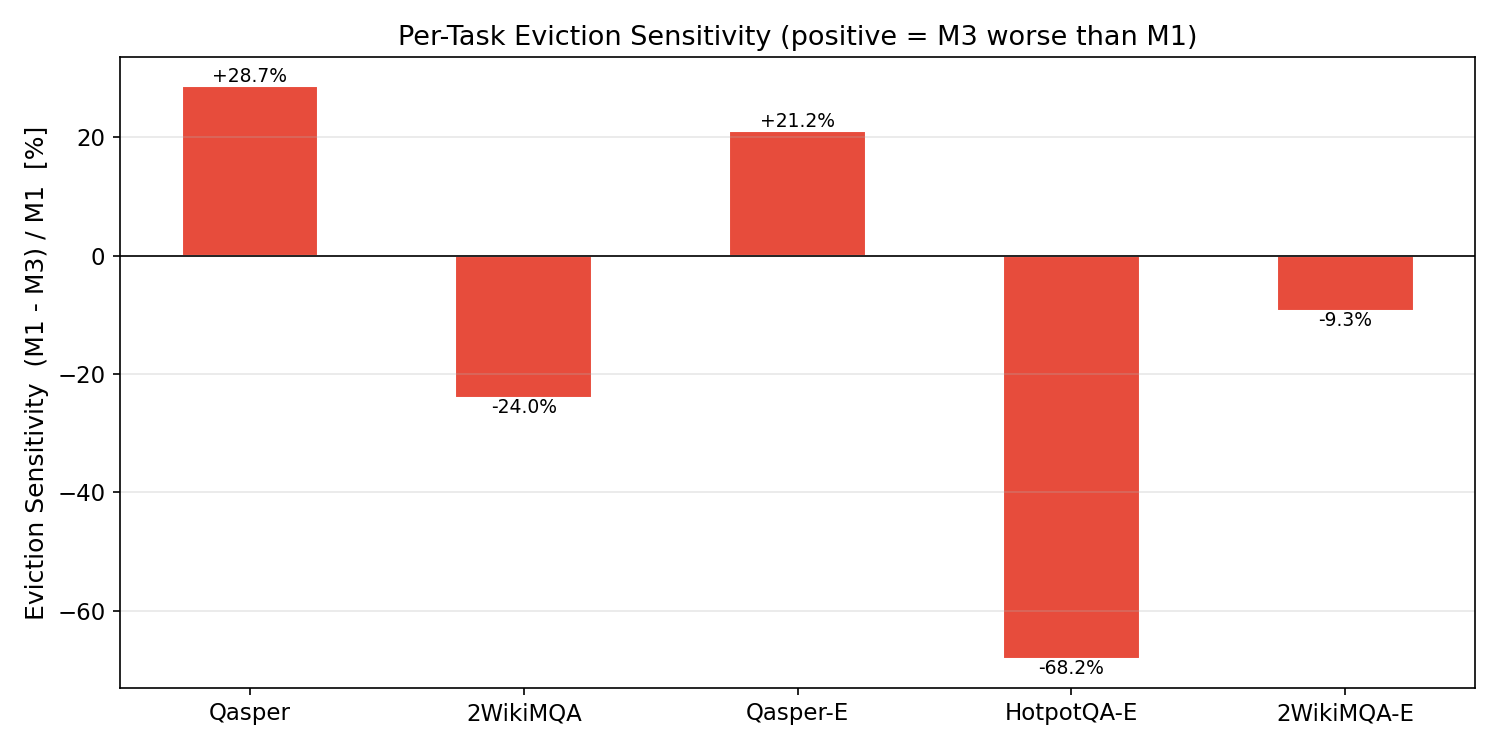
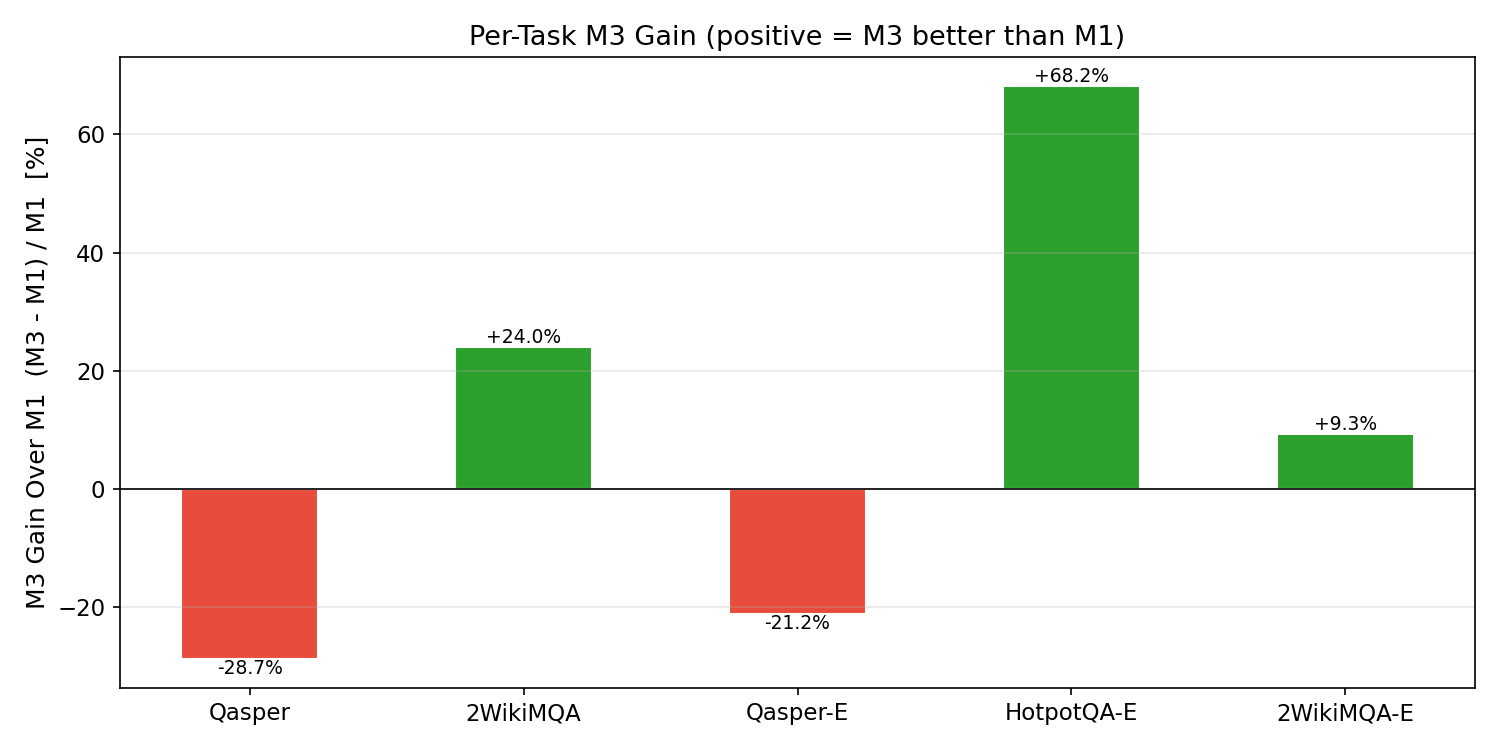
analysis: flip sensitivity metric to (M3-M1)/M1 for clarity
Positive now means M3 is better than M1 (more intuitive).
Green bars = gain, red bars = loss. Updated report 1 text,
generate_plots.py, and analysis_specification formula.

diff --git a/analysis/report_1/scripts/generate_plots.py b/analysis/report_1/scripts/generate_plots.py
@@ -2,7 +2,7 @@
 
 Loads pre-extracted val F1 data from maskfix_data.json and generates:
   1. best_val_f1_comparison.png -- grouped bar: B0, M1, M2, M3 per task
-  2. sensitivity_bar.png        -- (M1 - M3) / M1 per task
+  2. sensitivity_bar.png        -- (M3 - M1) / M1 per task
   3. recovery_ratio.png         -- M3 / M1 per task
 
 Run:
@@ -139,9 +139,10 @@ def plot_sensitivity_bar(data: dict) -> None:
         if abs(m1[t]) < 1e-9:
             sens.append(0.0)
         else:
-            sens.append((m1[t] - m3[t]) / m1[t] * 100)
+            sens.append((m3[t] - m1[t]) / m1[t] * 100)
 
-    bars = ax.bar(x, sens, width, color="#e74c3c", edgecolor="white")
+    colors = ["#2ca02c" if s >= 0 else "#e74c3c" for s in sens]
+    bars = ax.bar(x, sens, width, color=colors, edgecolor="white")
     for bar, val in zip(bars, sens):
         y = bar.get_height()
         va = "bottom" if y >= 0 else "top"
@@ -151,8 +152,8 @@ def plot_sensitivity_bar(data: dict) -> None:
     ax.axhline(0, color="black", linewidth=0.8)
     ax.set_xticks(x)
     ax.set_xticklabels(task_labels)
-    ax.set_ylabel("Eviction Sensitivity  (M1 - M3) / M1  [%]")
-    ax.set_title("Per-Task Eviction Sensitivity (positive = M3 worse than M1)")
+    ax.set_ylabel("M3 Gain Over M1  (M3 - M1) / M1  [%]")
+    ax.set_title("Per-Task M3 Gain (positive = M3 better than M1)")
     ax.grid(axis="y", alpha=0.3)
     fig.tight_layout()
     path = OUT_DIR / "sensitivity_bar.png"

diff --git a/analysis/report_1/_report.md b/analysis/report_1/_report.md
@@ -21,27 +21,25 @@ Best step / best iter:
 - M2: iter 170 (WandB `z5bo4n8k`)
 - M3: step 260 of ~608 (WandB `h0bzg6on`)
 
-## 2. Eviction Sensitivity: (M1 - M3) / M1
+## 2. M3 Gain Over M1: (M3 - M1) / M1
 
-This measures the fraction of M1 performance *lost* when NAMM eviction is applied
-during joint training. Negative values mean M3 *exceeded* M1, i.e. joint training
-recovered more than what was lost.
+This measures the relative change in performance when training with NAMM
+eviction active (M3) vs full context (M1). Positive = M3 is better.
 
-| Task         | Sensitivity (%) |
+| Task         | M3 Gain (%)     |
 |:-------------|----------------:|
-| qasper       |          +28.71 |
-| 2wikimqa     |          -24.04 |
-| qasper_e     |          +21.14 |
-| hotpotqa_e   |          -68.18 |
-| 2wikimqa_e   |           -9.26 |
-| **Mean**     |      **-14.48** |
+| qasper       |          -28.71 |
+| 2wikimqa     |          +24.04 |
+| qasper_e     |          -21.14 |
+| hotpotqa_e   |          +68.18 |
+| 2wikimqa_e   |           +9.26 |
+| **Mean**     |      **+14.48** |
 
-Positive = performance lost; negative = performance gained beyond M1.
-
-On average, M3 *surpasses* M1 by 14.48% relative. The joint-training loop
-(LoRA + NAMM) does not merely recover from eviction damage -- it improves beyond
-the LoRA-only baseline. Three of five tasks (2wikimqa, hotpotqa_e, 2wikimqa_e)
-show gains beyond M1, with hotpotqa_e showing a particularly large improvement.
+On average, M3 surpasses M1 by 14.48% relative. Eviction-aware training does
+not merely recover from eviction damage -- it improves beyond the LoRA-only
+baseline. Three of five tasks (2WikiMQA, HotpotQA-E, 2WikiMQA-E) show gains,
+with HotpotQA-E showing a particularly large +68% improvement. Qasper tasks
+are the exception, losing 21-29% relative to M1.
 
 ## 3. Recovery Ratio: (M3 - M2) / (M1 - M2)
 
@@ -111,5 +109,5 @@ genuine eviction quality.
 | Plot                                                     | Description                                  |
 | -------------------------------------------------------- | -------------------------------------------- |
 | [`best_val_f1_comparison.png`](plots/best_val_f1_comparison.png) | Per-task best val F1 grouped bar (B0--M3)  |
-| [`sensitivity_bar.png`](plots/sensitivity_bar.png)             | Eviction sensitivity per task                |
+| [`sensitivity_bar.png`](plots/sensitivity_bar.png)             | M3 gain over M1 per task                     |
 | [`recovery_ratio.png`](plots/recovery_ratio.png)               | Recovery ratio per task (M3/M1)              |

diff --git a/analysis_specification.md b/analysis_specification.md
@@ -90,7 +90,7 @@ Form predictions for the relative task ranking under each condition (B0, M1, M2,
 **Method:** Compute per-task eviction sensitivity as the relative F1 drop between M1 (full context) and M3 (evicted context):
 
 ```
-sensitivity(task) = (M1_F1 - M3_F1) / M1_F1
+gain(task) = (M3_F1 - M1_F1) / M1_F1
 ```
 
 A high sensitivity score means the task relies on information that NAMM tends to evict. Cross-reference with task characteristics: average answer position within the context, average context length, and whether the task requires specific detail retrieval (e.g. Qasper scientific QA) vs high-level reasoning (e.g. 2WikiMQA).
